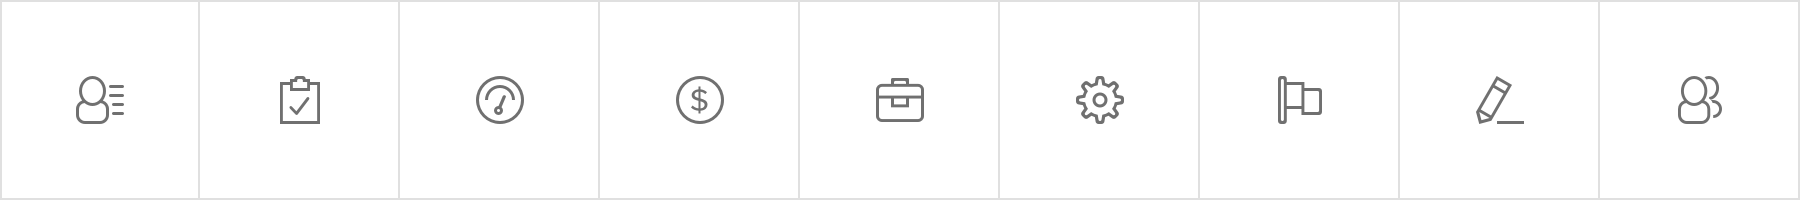
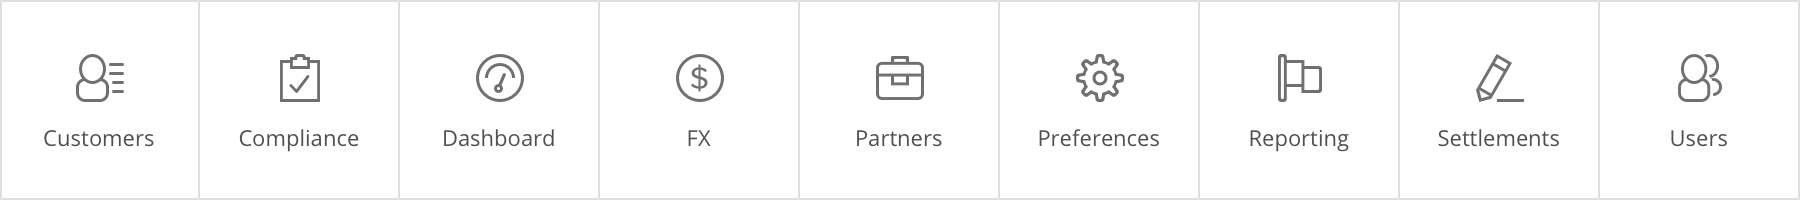
Updates chapter1/iconography.md
Auto commit by GitBook Editor

diff --git a/chapter1/iconography.md b/chapter1/iconography.md
@@ -4,5 +4,5 @@ The Back Office color palette comes with 5 different weights for each hue, rangi
 
 #### Sidebar Icons
 
-![](/assets/foundations/iconography-sidebar-icons-customers.png)
+![](/assets/foundations/iconography-sidebar-icons-customers.png)![](/assets/foundations/iconography-sidebar-icons.png)
 
